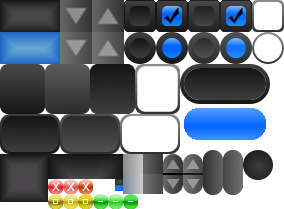
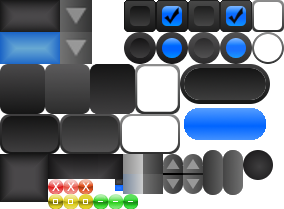
:boom: Replaced ArrowUp and ArrowDown in ComboBox by a single Arrow property

Changed region(s): [[0.3099, 0.0, 0.4507, 0.3158]]

diff --git a/src/TGUI/Widgets/ComboBox.cpp b/src/TGUI/Widgets/ComboBox.cpp
@@ -58,10 +58,8 @@ namespace tgui
         m_text                           {other.m_text},
         m_expandDirection                {other.m_expandDirection},
         m_spriteBackground               {other.m_spriteBackground},
-        m_spriteArrowUp                  {other.m_spriteArrowUp},
-        m_spriteArrowDown                {other.m_spriteArrowDown},
-        m_spriteArrowUpHover             {other.m_spriteArrowUpHover},
-        m_spriteArrowDownHover           {other.m_spriteArrowDownHover},
+        m_spriteArrow                    {other.m_spriteArrow},
+        m_spriteArrowHover               {other.m_spriteArrowHover},
         m_bordersCached                  {other.m_bordersCached},
         m_paddingCached                  {other.m_paddingCached},
         m_borderColorCached              {other.m_borderColorCached},
@@ -84,10 +82,8 @@ namespace tgui
         m_text                           {std::move(other.m_text)},
         m_expandDirection                {std::move(other.m_expandDirection)},
         m_spriteBackground               {std::move(other.m_spriteBackground)},
-        m_spriteArrowUp                  {std::move(other.m_spriteArrowUp)},
-        m_spriteArrowDown                {std::move(other.m_spriteArrowDown)},
-        m_spriteArrowUpHover             {std::move(other.m_spriteArrowUpHover)},
-        m_spriteArrowDownHover           {std::move(other.m_spriteArrowDownHover)},
+        m_spriteArrow                    {std::move(other.m_spriteArrow)},
+        m_spriteArrowHover               {std::move(other.m_spriteArrowHover)},
         m_bordersCached                  {std::move(other.m_bordersCached)},
         m_paddingCached                  {std::move(other.m_paddingCached)},
         m_borderColorCached              {std::move(other.m_borderColorCached)},
@@ -115,10 +111,8 @@ namespace tgui
             std::swap(m_text,                            temp.m_text);
             std::swap(m_expandDirection,                 temp.m_expandDirection);
             std::swap(m_spriteBackground,                temp.m_spriteBackground);
-            std::swap(m_spriteArrowUp,                   temp.m_spriteArrowUp);
-            std::swap(m_spriteArrowDown,                 temp.m_spriteArrowDown);
-            std::swap(m_spriteArrowUpHover,              temp.m_spriteArrowUpHover);
-            std::swap(m_spriteArrowDownHover,            temp.m_spriteArrowDownHover);
+            std::swap(m_spriteArrow,                     temp.m_spriteArrow);
+            std::swap(m_spriteArrowHover,                temp.m_spriteArrowHover);
             std::swap(m_bordersCached,                   temp.m_bordersCached);
             std::swap(m_paddingCached,                   temp.m_paddingCached);
             std::swap(m_borderColorCached,               temp.m_borderColorCached);
@@ -145,10 +139,8 @@ namespace tgui
             m_text                            = std::move(other.m_text);
             m_expandDirection                 = std::move(other.m_expandDirection);
             m_spriteBackground                = std::move(other.m_spriteBackground);
-            m_spriteArrowUp                   = std::move(other.m_spriteArrowUp);
-            m_spriteArrowDown                 = std::move(other.m_spriteArrowDown);
-            m_spriteArrowUpHover              = std::move(other.m_spriteArrowUpHover);
-            m_spriteArrowDownHover            = std::move(other.m_spriteArrowDownHover);
+            m_spriteArrow                     = std::move(other.m_spriteArrow);
+            m_spriteArrowHover                = std::move(other.m_spriteArrowHover);
             m_bordersCached                   = std::move(other.m_bordersCached);
             m_paddingCached                   = std::move(other.m_paddingCached);
             m_borderColorCached               = std::move(other.m_borderColorCached);
@@ -226,13 +218,10 @@ namespace tgui
             updateListBoxHeight();
         }
 
-        if (m_spriteArrowUp.isSet() && m_spriteArrowDown.isSet())
+        if (m_spriteArrow.isSet())
         {
-            m_spriteArrowUp.setSize({m_spriteArrowUp.getTexture().getImageSize().x * (height / m_spriteArrowUp.getTexture().getImageSize().y), height});
-            m_spriteArrowDown.setSize({m_spriteArrowDown.getTexture().getImageSize().x * (height / m_spriteArrowDown.getTexture().getImageSize().y), height});
-
-            m_spriteArrowUpHover.setSize(m_spriteArrowUp.getSize());
-            m_spriteArrowDownHover.setSize(m_spriteArrowDown.getSize());
+            m_spriteArrow.setSize({m_spriteArrow.getTexture().getImageSize().x * (height / m_spriteArrow.getTexture().getImageSize().y), height});
+            m_spriteArrowHover.setSize(m_spriteArrow.getSize());
         }
 
         m_text.setCharacterSize(m_listBox->getTextSize());
@@ -574,23 +563,14 @@ namespace tgui
         {
             m_spriteBackground.setTexture(getSharedRenderer()->getTextureBackground());
         }
-        else if (property == "texturearrowup")
+        else if (property == "texturearrow")
         {
-            m_spriteArrowUp.setTexture(getSharedRenderer()->getTextureArrowUp());
+            m_spriteArrow.setTexture(getSharedRenderer()->getTextureArrow());
             setSize(m_size);
         }
-        else if (property == "texturearrowuphover")
+        else if (property == "texturearrowhover")
         {
-            m_spriteArrowUpHover.setTexture(getSharedRenderer()->getTextureArrowUpHover());
-        }
-        else if (property == "texturearrowdown")
-        {
-            m_spriteArrowDown.setTexture(getSharedRenderer()->getTextureArrowDown());
-            setSize(m_size);
-        }
-        else if (property == "texturearrowdownhover")
-        {
-            m_spriteArrowDownHover.setTexture(getSharedRenderer()->getTextureArrowDownHover());
+            m_spriteArrowHover.setTexture(getSharedRenderer()->getTextureArrowHover());
         }
         else if (property == "listbox")
         {
@@ -625,10 +605,8 @@ namespace tgui
             Widget::rendererChanged(property);
 
             m_spriteBackground.setOpacity(m_opacityCached);
-            m_spriteArrowUp.setOpacity(m_opacityCached);
-            m_spriteArrowUpHover.setOpacity(m_opacityCached);
-            m_spriteArrowDown.setOpacity(m_opacityCached);
-            m_spriteArrowDownHover.setOpacity(m_opacityCached);
+            m_spriteArrow.setOpacity(m_opacityCached);
+            m_spriteArrowHover.setOpacity(m_opacityCached);
 
             m_text.setOpacity(m_opacityCached);
         }
@@ -752,31 +730,17 @@ namespace tgui
         else
             drawRectangleShape(target, states, getInnerSize(), m_backgroundColorCached);
 
-        // Check if we have textures for the arrow
+        // Check if we have a texture for the arrow
         float arrowSize;
-        if (m_spriteArrowUp.isSet() && m_spriteArrowDown.isSet())
+        if (m_spriteArrow.isSet())
         {
-            // Set the arrow like it should (down when list box is invisible, up when it is visible)
-            if (m_listBox->isVisible())
-            {
-                arrowSize = m_spriteArrowUp.getSize().x;
-                states.transform.translate({getInnerSize().x - m_paddingCached.getRight() - arrowSize, m_paddingCached.getTop()});
+            arrowSize = m_spriteArrow.getSize().x;
+            states.transform.translate({getInnerSize().x - m_paddingCached.getRight() - arrowSize, m_paddingCached.getTop()});
 
-                if (m_mouseHover && m_spriteArrowUpHover.isSet())
-                    m_spriteArrowUpHover.draw(target, states);
-                else
-                    m_spriteArrowUp.draw(target, states);
-            }
+            if (m_mouseHover && m_spriteArrowHover.isSet())
+                m_spriteArrowHover.draw(target, states);
             else
-            {
-                arrowSize = m_spriteArrowDown.getSize().x;
-                states.transform.translate({getInnerSize().x - m_paddingCached.getRight() - arrowSize, m_paddingCached.getTop()});
-
-                if (m_mouseHover && m_spriteArrowDownHover.isSet())
-                    m_spriteArrowDownHover.draw(target, states);
-                else
-                    m_spriteArrowDown.draw(target, states);
-            }
+                m_spriteArrow.draw(target, states);
         }
         else // There are no textures for the arrow
         {
@@ -789,18 +753,9 @@ namespace tgui
                 drawRectangleShape(target, states, {arrowSize, arrowSize}, m_arrowBackgroundColorCached);
 
             sf::ConvexShape arrow{3};
-            if (m_listBox->isVisible())
-            {
-                arrow.setPoint(0, {arrowSize / 5, arrowSize * 4/5});
-                arrow.setPoint(1, {arrowSize / 2, arrowSize / 5});
-                arrow.setPoint(2, {arrowSize * 4/5, arrowSize * 4/5});
-            }
-            else // The listbox is not visible, the arrow points down
-            {
-                arrow.setPoint(0, {arrowSize / 5, arrowSize / 5});
-                arrow.setPoint(1, {arrowSize / 2, arrowSize * 4/5});
-                arrow.setPoint(2, {arrowSize * 4/5, arrowSize / 5});
-            }
+            arrow.setPoint(0, {arrowSize / 5, arrowSize / 5});
+            arrow.setPoint(1, {arrowSize / 2, arrowSize * 4/5});
+            arrow.setPoint(2, {arrowSize * 4/5, arrowSize / 5});
 
             if (m_mouseHover && m_arrowColorHoverCached.isSet())
                 arrow.setFillColor(m_arrowColorHoverCached);

diff --git a/include/TGUI/Renderers/ComboBoxRenderer.hpp b/include/TGUI/Renderers/ComboBoxRenderer.hpp
@@ -245,79 +245,40 @@ namespace tgui
 
 
         /////////////////////////////////////////////////////////////////////////////////////////////////////////////////////////
-        /// @brief Changes the image of the up arrow
+        /// @brief Changes the image of the arrow
         ///
-        /// @param texture  The new up arrow texture
+        /// @param texture  The new arrow texture
         ///
-        /// When this image and the down image are set, the arrow color properties will be ignored.
-        ///
+        /// When this image is set, the arrow color properties will be ignored.
         /////////////////////////////////////////////////////////////////////////////////////////////////////////////////////////
-        void setTextureArrowUp(const Texture& texture);
+        void setTextureArrow(const Texture& texture);
 
 
         /////////////////////////////////////////////////////////////////////////////////////////////////////////////////////////
-        /// @brief Returns the image of the up arrow
+        /// @brief Returns the image of the arrow
         ///
-        /// @return Up arrow texture
+        /// @return Arrow texture
         ///
         /////////////////////////////////////////////////////////////////////////////////////////////////////////////////////////
-        Texture& getTextureArrowUp() const;
+        Texture& getTextureArrow() const;
 
 
         /////////////////////////////////////////////////////////////////////////////////////////////////////////////////////////
-        /// @brief Changes the image of the up arrow that is displayed when the mouse is on top of it
+        /// @brief Changes the image of the arrow that is displayed when the mouse is on top of it
         ///
-        /// @param texture  The new hover up arrow texture
+        /// @param texture  The new hover arrow texture
         ///
         /////////////////////////////////////////////////////////////////////////////////////////////////////////////////////////
-        void setTextureArrowUpHover(const Texture& texture);
+        void setTextureArrowHover(const Texture& texture);
 
 
         /////////////////////////////////////////////////////////////////////////////////////////////////////////////////////////
-        /// @brief Returns the image of the up arrow that is displayed when the mouse is on top of it
+        /// @brief Returns the image of the arrow that is displayed when the mouse is on top of it
         ///
-        /// @return Hover up arrow texture
-        ///
-        /////////////////////////////////////////////////////////////////////////////////////////////////////////////////////////
-        Texture& getTextureArrowUpHover() const;
-
-
-        /////////////////////////////////////////////////////////////////////////////////////////////////////////////////////////
-        /// @brief Changes the image of the down arrow
-        ///
-        /// @param texture  The new down arrow texture
-        ///
-        /// When this image and the up image are set, the arrow color properties will be ignored.
+        /// @return Hover arrow texture
         ///
         /////////////////////////////////////////////////////////////////////////////////////////////////////////////////////////
-        void setTextureArrowDown(const Texture& texture);
-
-
-        /////////////////////////////////////////////////////////////////////////////////////////////////////////////////////////
-        /// @brief Returns the image of the down arrow
-        ///
-        /// @return Down arrow texture
-        ///
-        /////////////////////////////////////////////////////////////////////////////////////////////////////////////////////////
-        Texture& getTextureArrowDown() const;
-
-
-        /////////////////////////////////////////////////////////////////////////////////////////////////////////////////////////
-        /// @brief Changes the image of the down arrow that is displayed when the mouse is on top of it
-        ///
-        /// @param texture  The new hover down arrow texture
-        ///
-        /////////////////////////////////////////////////////////////////////////////////////////////////////////////////////////
-        void setTextureArrowDownHover(const Texture& texture);
-
-
-        /////////////////////////////////////////////////////////////////////////////////////////////////////////////////////////
-        /// @brief Returns the image of the down arrow that is displayed when the mouse is on top of it
-        ///
-        /// @return Hover down arrow texture
-        ///
-        /////////////////////////////////////////////////////////////////////////////////////////////////////////////////////////
-        Texture& getTextureArrowDownHover() const;
+        Texture& getTextureArrowHover() const;
 
 
         /////////////////////////////////////////////////////////////////////////////////////////////////////////////////////////

diff --git a/tests/Widgets/ComboBox.cpp b/tests/Widgets/ComboBox.cpp
@@ -306,49 +306,37 @@ TEST_CASE("[ComboBox]")
         SECTION("textured")
         {
             tgui::Texture textureBackground("resources/Black.png", {0, 154, 48, 48}, {16, 16, 16, 16});
-            tgui::Texture textureArrowUp("resources/Black.png", {60,  0, 32, 32});
-            tgui::Texture textureArrowUpHover("resources/Black.png", {60, 32, 32, 32});
-            tgui::Texture textureArrowDown("resources/Black.png", {92,  0, 32, 32});
-            tgui::Texture textureArrowDownHover("resources/Black.png", {92, 32, 32, 32});
+            tgui::Texture textureArrow("resources/Black.png", {92,  0, 32, 32});
+            tgui::Texture textureArrowHover("resources/Black.png", {92, 32, 32, 32});
 
             SECTION("set serialized property")
             {
                 REQUIRE_NOTHROW(renderer->setProperty("TextureBackground", tgui::Serializer::serialize(textureBackground)));
-                REQUIRE_NOTHROW(renderer->setProperty("TextureArrowUp", tgui::Serializer::serialize(textureArrowUp)));
-                REQUIRE_NOTHROW(renderer->setProperty("TextureArrowUpHover", tgui::Serializer::serialize(textureArrowUpHover)));
-                REQUIRE_NOTHROW(renderer->setProperty("TextureArrowDown", tgui::Serializer::serialize(textureArrowDown)));
-                REQUIRE_NOTHROW(renderer->setProperty("TextureArrowDownHover", tgui::Serializer::serialize(textureArrowDownHover)));
+                REQUIRE_NOTHROW(renderer->setProperty("TextureArrow", tgui::Serializer::serialize(textureArrow)));
+                REQUIRE_NOTHROW(renderer->setProperty("TextureArrowHover", tgui::Serializer::serialize(textureArrowHover)));
             }
 
             SECTION("set object property")
             {
                 REQUIRE_NOTHROW(renderer->setProperty("TextureBackground", textureBackground));
-                REQUIRE_NOTHROW(renderer->setProperty("TextureArrowUp", textureArrowUp));
-                REQUIRE_NOTHROW(renderer->setProperty("TextureArrowUpHover", textureArrowUpHover));
-                REQUIRE_NOTHROW(renderer->setProperty("TextureArrowDown", textureArrowDown));
-                REQUIRE_NOTHROW(renderer->setProperty("TextureArrowDownHover", textureArrowDownHover));
+                REQUIRE_NOTHROW(renderer->setProperty("TextureArrow", textureArrow));
+                REQUIRE_NOTHROW(renderer->setProperty("TextureArrowHover", textureArrowHover));
             }
 
             SECTION("functions")
             {
                 renderer->setTextureBackground(textureBackground);
-                renderer->setTextureArrowUp(textureArrowUp);
-                renderer->setTextureArrowUpHover(textureArrowUpHover);
-                renderer->setTextureArrowDown(textureArrowDown);
-                renderer->setTextureArrowDownHover(textureArrowDownHover);
+                renderer->setTextureArrow(textureArrow);
+                renderer->setTextureArrowHover(textureArrowHover);
             }
 
             REQUIRE(renderer->getProperty("TextureBackground").getTexture().getData() != nullptr);
-            REQUIRE(renderer->getProperty("TextureArrowUp").getTexture().getData() != nullptr);
-            REQUIRE(renderer->getProperty("TextureArrowUpHover").getTexture().getData() != nullptr);
-            REQUIRE(renderer->getProperty("TextureArrowDown").getTexture().getData() != nullptr);
-            REQUIRE(renderer->getProperty("TextureArrowDownHover").getTexture().getData() != nullptr);
+            REQUIRE(renderer->getProperty("TextureArrow").getTexture().getData() != nullptr);
+            REQUIRE(renderer->getProperty("TextureArrowHover").getTexture().getData() != nullptr);
 
             REQUIRE(renderer->getTextureBackground().getData() == textureBackground.getData());
-            REQUIRE(renderer->getTextureArrowUp().getData() == textureArrowUp.getData());
-            REQUIRE(renderer->getTextureArrowUpHover().getData() == textureArrowUpHover.getData());
-            REQUIRE(renderer->getTextureArrowDown().getData() == textureArrowDown.getData());
-            REQUIRE(renderer->getTextureArrowDownHover().getData() == textureArrowDownHover.getData());
+            REQUIRE(renderer->getTextureArrow().getData() == textureArrow.getData());
+            REQUIRE(renderer->getTextureArrowHover().getData() == textureArrowHover.getData());
         }
     }
 

diff --git a/src/TGUI/Renderers/ComboBoxRenderer.cpp b/src/TGUI/Renderers/ComboBoxRenderer.cpp
@@ -42,10 +42,8 @@ namespace tgui
     TGUI_RENDERER_PROPERTY_COLOR(ComboBoxRenderer, BorderColor, sf::Color::Black)
 
     TGUI_RENDERER_PROPERTY_TEXTURE(ComboBoxRenderer, TextureBackground)
-    TGUI_RENDERER_PROPERTY_TEXTURE(ComboBoxRenderer, TextureArrowUp)
-    TGUI_RENDERER_PROPERTY_TEXTURE(ComboBoxRenderer, TextureArrowUpHover)
-    TGUI_RENDERER_PROPERTY_TEXTURE(ComboBoxRenderer, TextureArrowDown)
-    TGUI_RENDERER_PROPERTY_TEXTURE(ComboBoxRenderer, TextureArrowDownHover)
+    TGUI_RENDERER_PROPERTY_TEXTURE(ComboBoxRenderer, TextureArrow)
+    TGUI_RENDERER_PROPERTY_TEXTURE(ComboBoxRenderer, TextureArrowHover)
 
     TGUI_RENDERER_PROPERTY_TEXT_STYLE(ComboBoxRenderer, TextStyle, sf::Text::Regular)
 

diff --git a/include/TGUI/Widgets/ComboBox.hpp b/include/TGUI/Widgets/ComboBox.hpp
@@ -591,10 +591,8 @@ namespace tgui
         ExpandDirection m_expandDirection = ExpandDirection::Down;
 
         Sprite m_spriteBackground;
-        Sprite m_spriteArrowUp;
-        Sprite m_spriteArrowDown;
-        Sprite m_spriteArrowUpHover;
-        Sprite m_spriteArrowDownHover;
+        Sprite m_spriteArrow;
+        Sprite m_spriteArrowHover;
 
         // Cached renderer properties
         Borders m_bordersCached;
